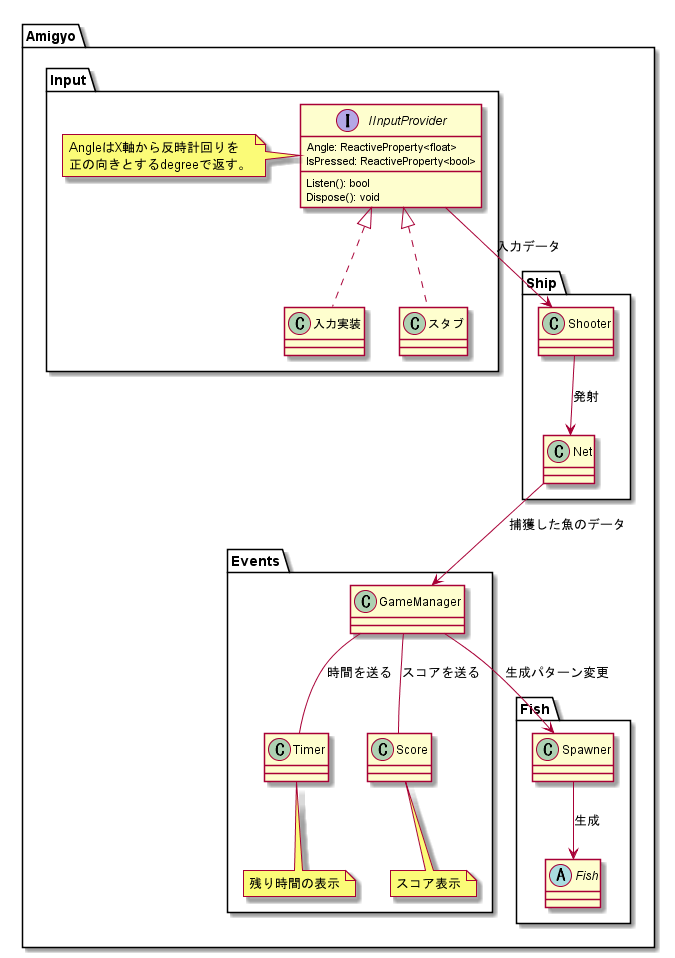
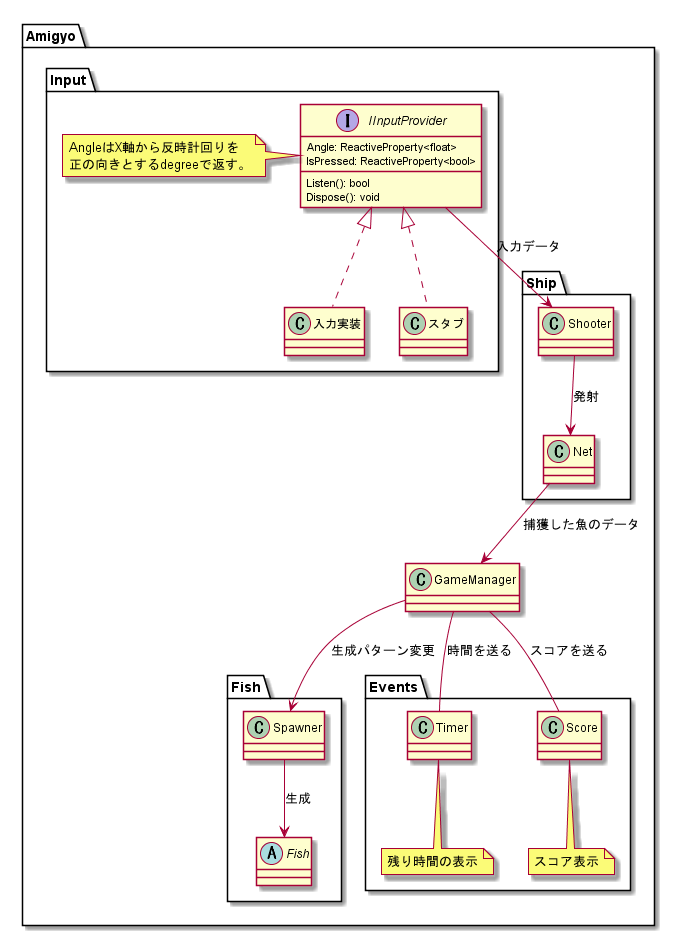
仕様書にクラス図を追加

diff --git a/docs/ソフトウェア仕様.md b/docs/ソフトウェア仕様.md
@@ -8,6 +8,9 @@
 - 終了条件：一定時間経過したら終了
 - 余裕があったらイベント・ミッションなどを追加
 
+## クラス図
+![](./resources/Amigyo-class.png)
+
 ## 入力・操作方法
 
 ![](./resources/input.png)
